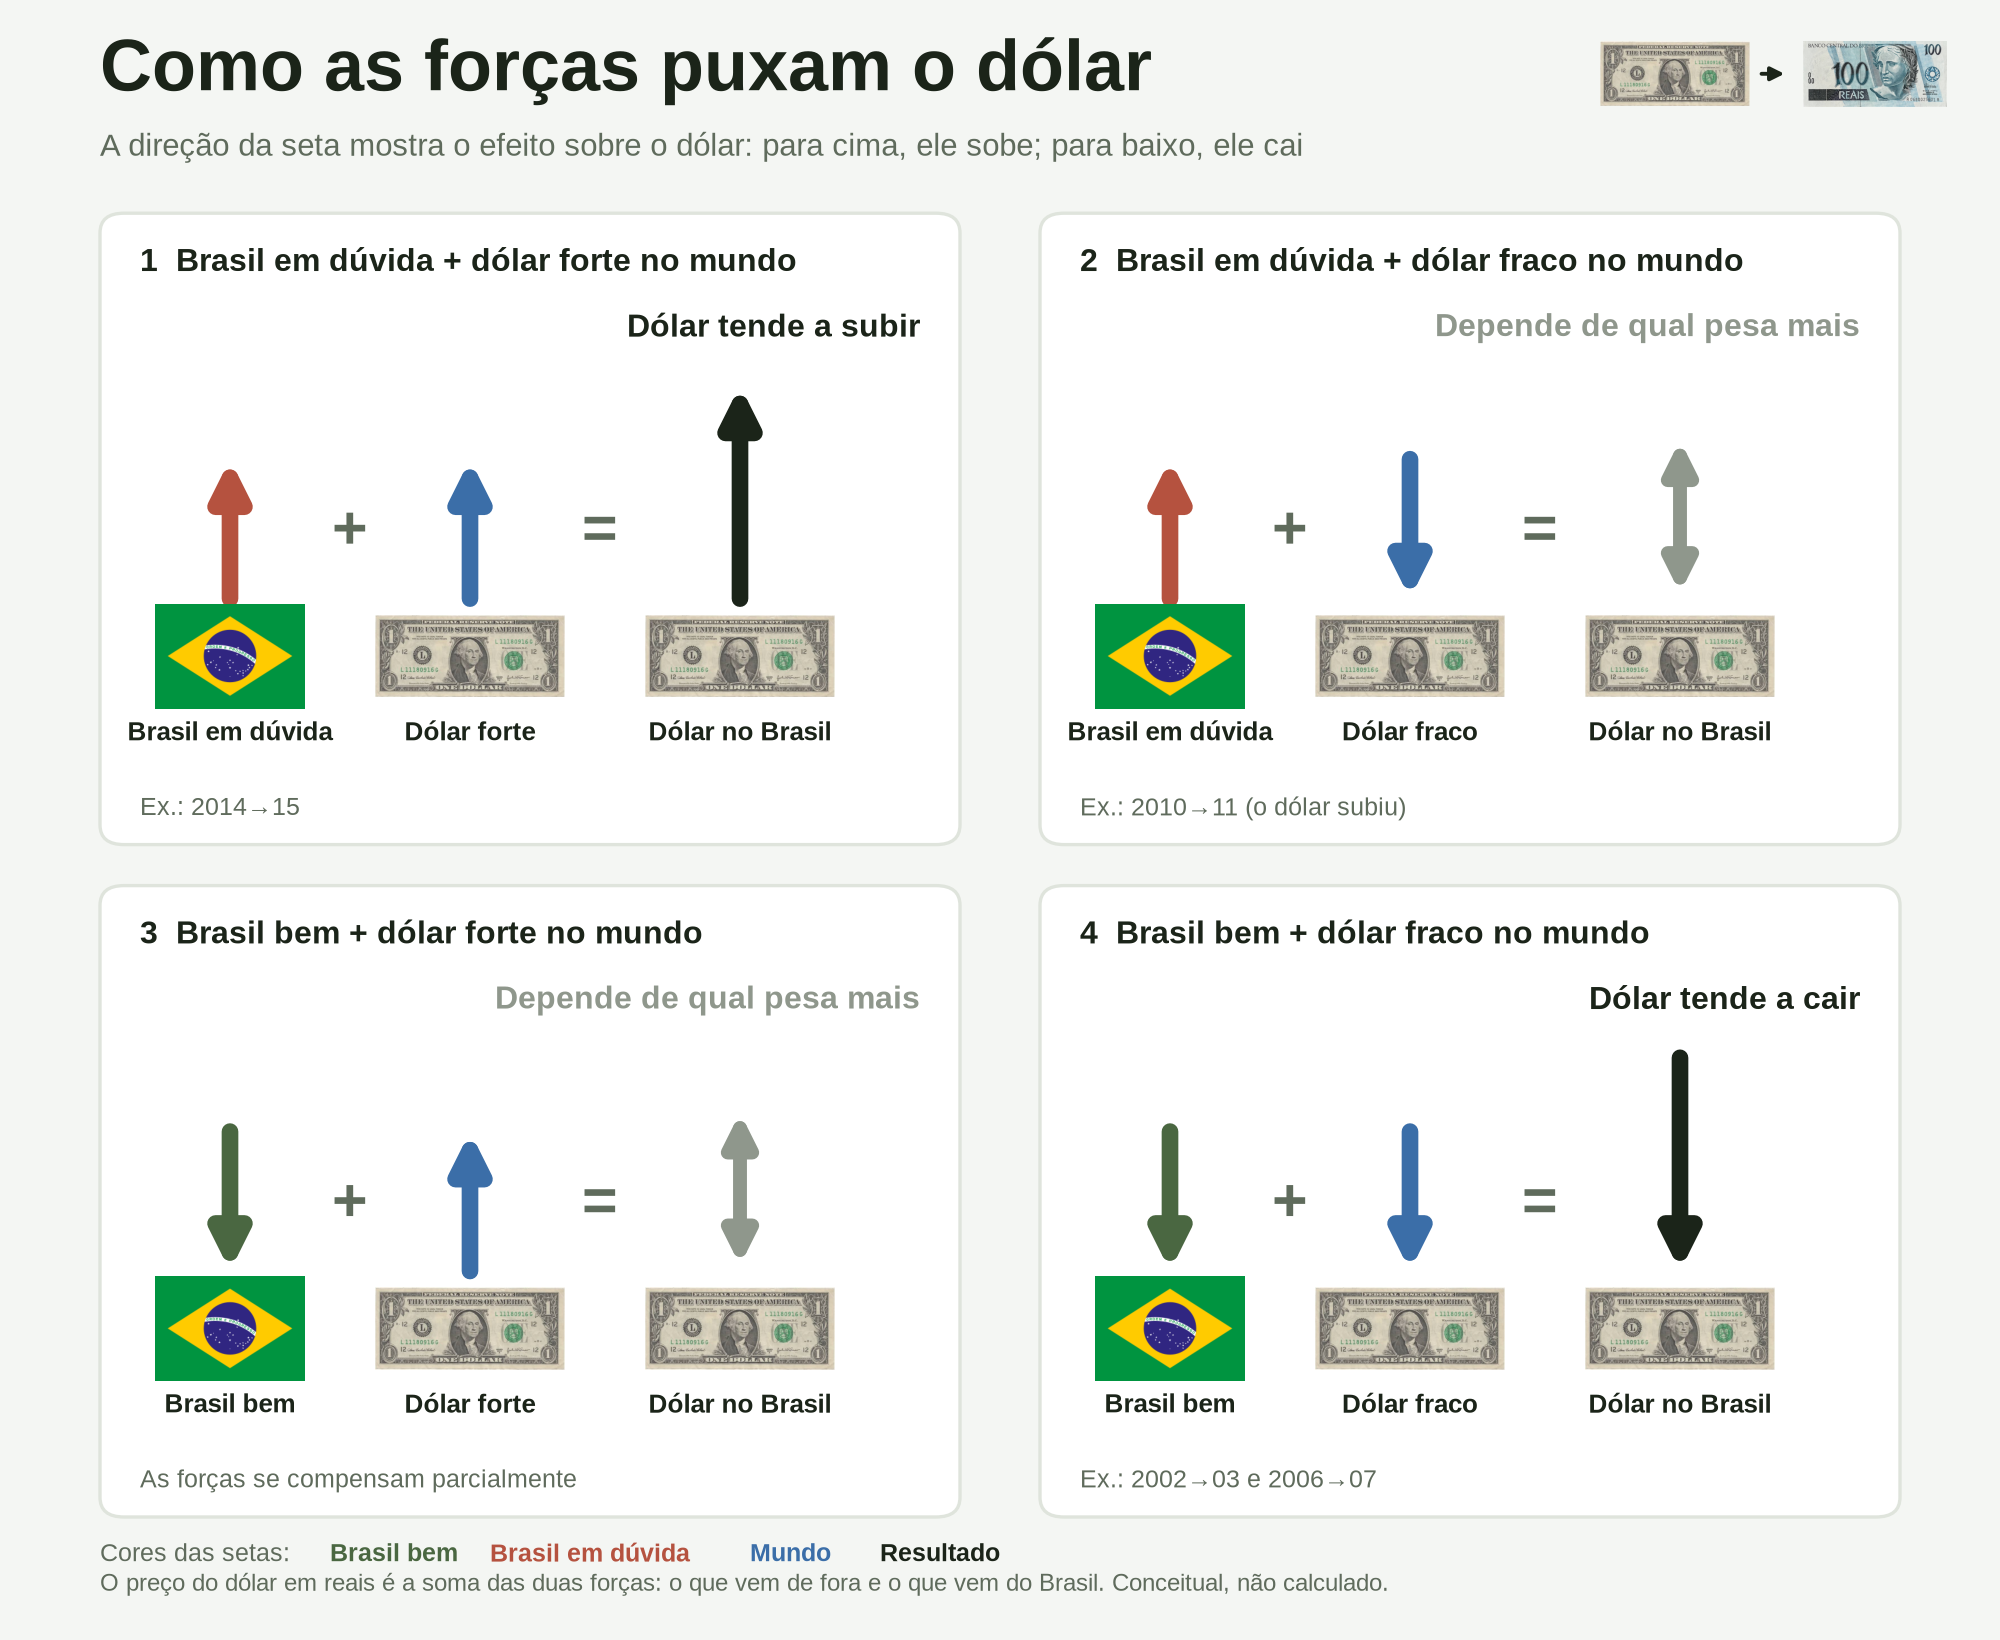
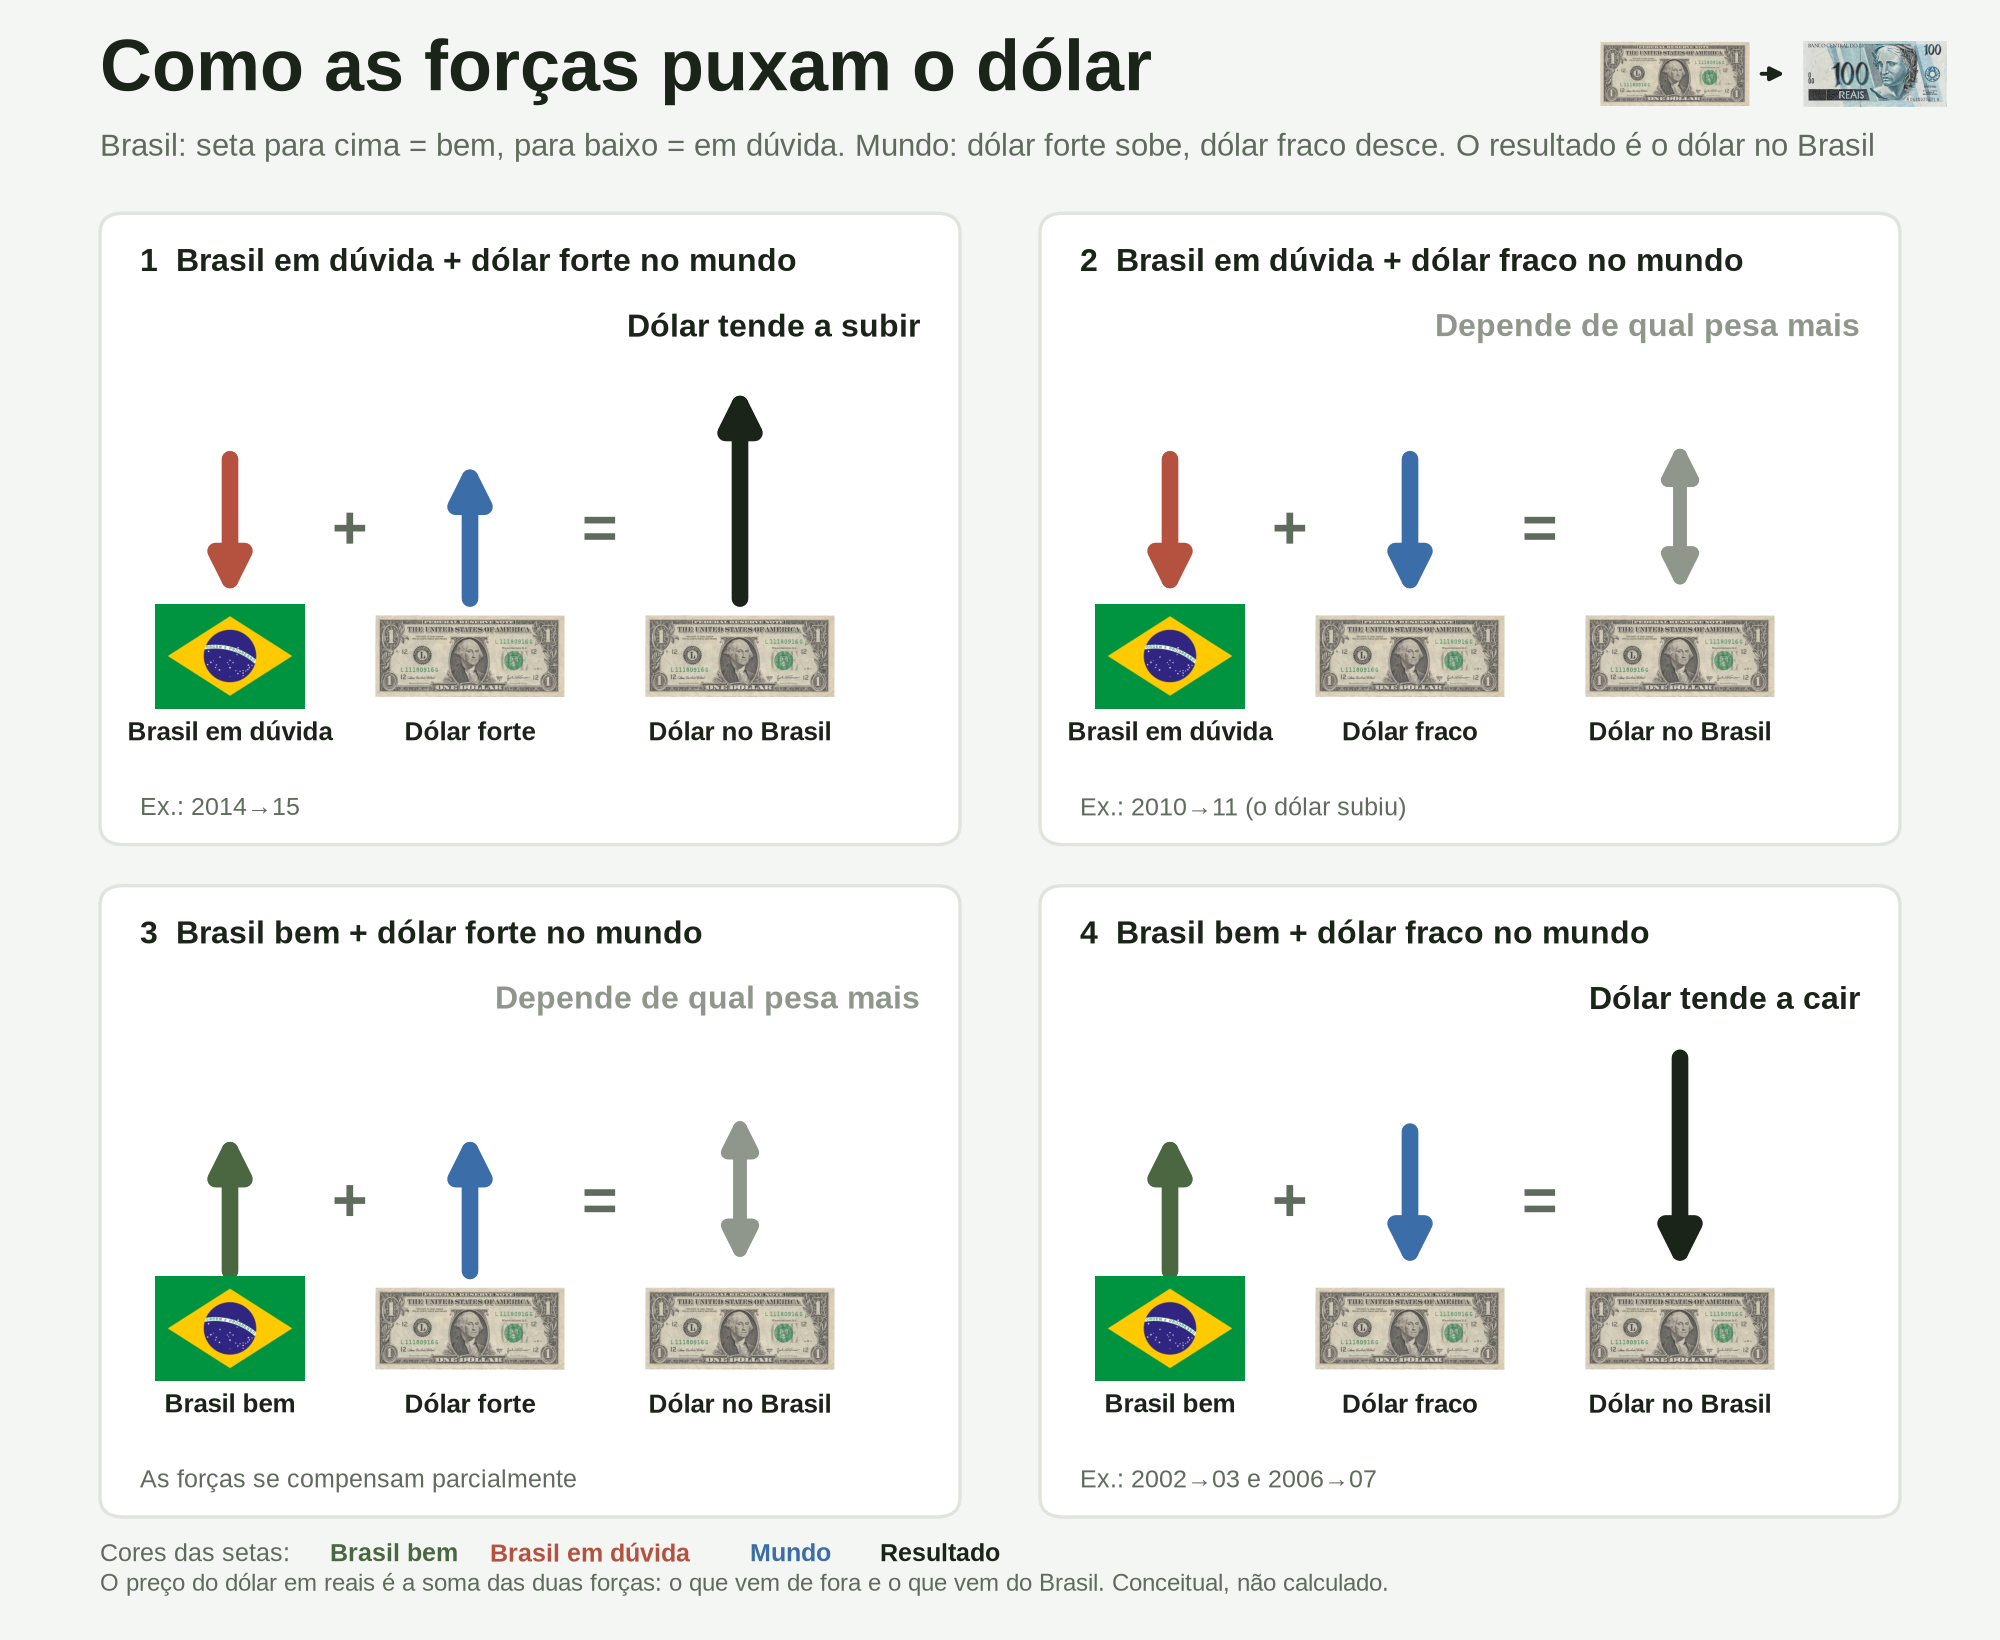
Seta do Brasil indica a situação: bem para cima (verde), em dúvida para baixo (vermelho)
Claude-Session: https://claude.ai/code/session_0199Y78iJYXbJq94ojXAjU9F

diff --git a/infografico_forcas_dolar.py b/infografico_forcas_dolar.py
@@ -17,7 +17,7 @@ BRL = Image.open("imagens/real_nota.jpg").convert("RGB")
 fig = plt.figure(figsize=(10, 8.2), dpi=200, facecolor=BG)
 F = fig.add_axes([0, 0, 1, 1]); F.set_xlim(0, 1); F.set_ylim(0, 1); F.axis("off"); F.patch.set_alpha(0)
 fig.text(.05, .945, "Como as forças puxam o dólar", color=INK, fontsize=26, fontweight="bold")
-fig.text(.05, .905, "A direção da seta mostra o efeito sobre o dólar: para cima, ele sobe; para baixo, ele cai", color=MUTED, fontsize=11)
+fig.text(.05, .905, "Brasil: seta para cima = bem, para baixo = em dúvida. Mundo: dólar forte sobe, dólar fraco desce. O resultado é o dólar no Brasil", color=MUTED, fontsize=11)
 # US$ -> R$ no canto
 for im, x in ((USD, .80), (BRL, .90)):
     a = fig.add_axes([x, .935, .075, .04]); a.imshow(im); a.axis("off")
@@ -48,7 +48,9 @@ def card(x0, y0, titulo, brasil, mundo, resultado, exemplo):
     # Resultado
     icone(USD, xs[2], base, .095)
     fig.text(xs[2], base - .047, "Dólar no Brasil", color=INK, fontsize=9.5, ha="center", va="center", fontweight="bold")
-    cor_brasil = UP if "bem" in brasil[0] else DOWN      # verde = Brasil bem, vermelho = Brasil em dúvida
+    bem = "bem" in brasil[0]
+    cor_brasil = UP if bem else DOWN      # verde = Brasil bem (seta para cima), vermelho = Brasil em dúvida (para baixo)
+    brasil = (brasil[0], (1 if bem else -1, brasil[1][1]))
     for cx, (sent, L), cor in zip(xs[:2], (brasil[1], mundo[1]), (cor_brasil, BLUE)):
         seta(cx, base + .035 if sent > 0 else base + .035 + L, sent * L, cor)
     sent, L = resultado[1]
